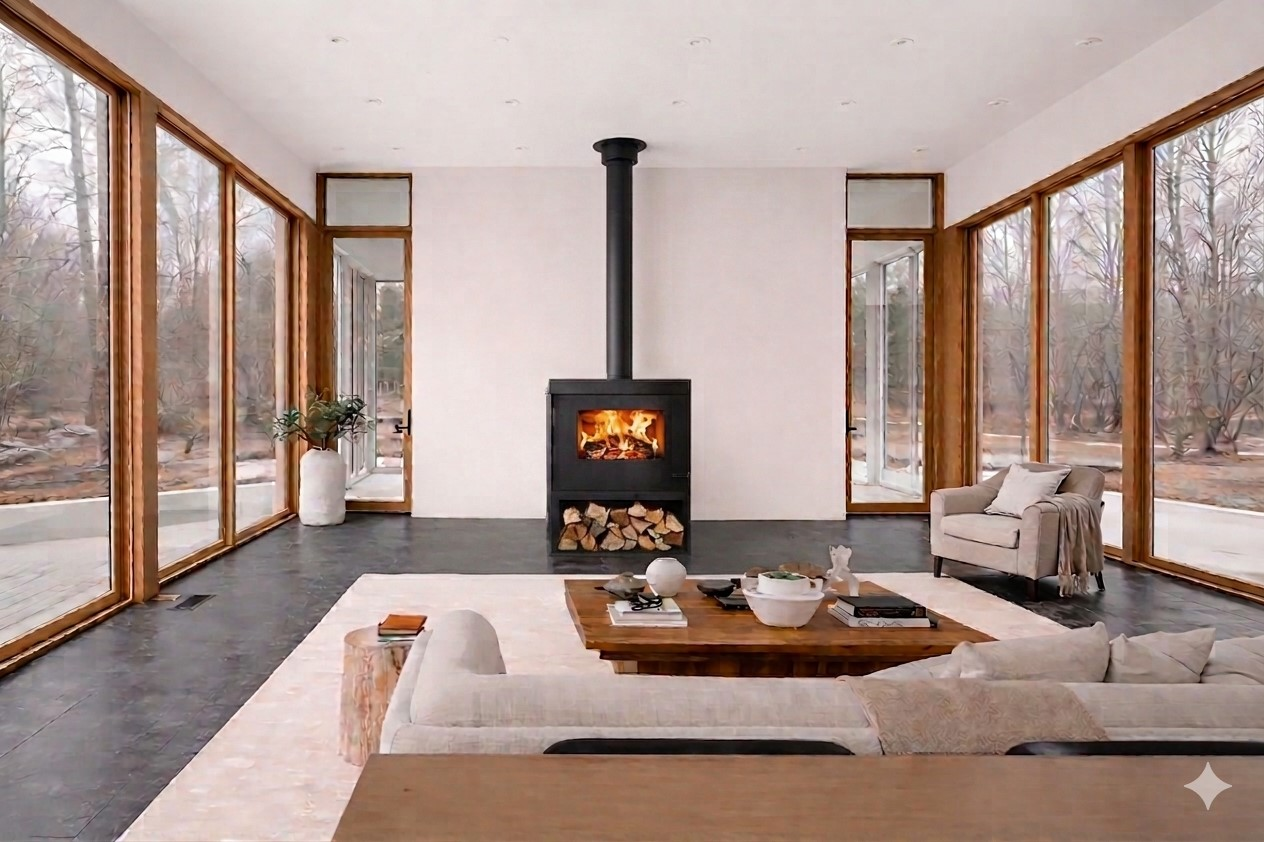
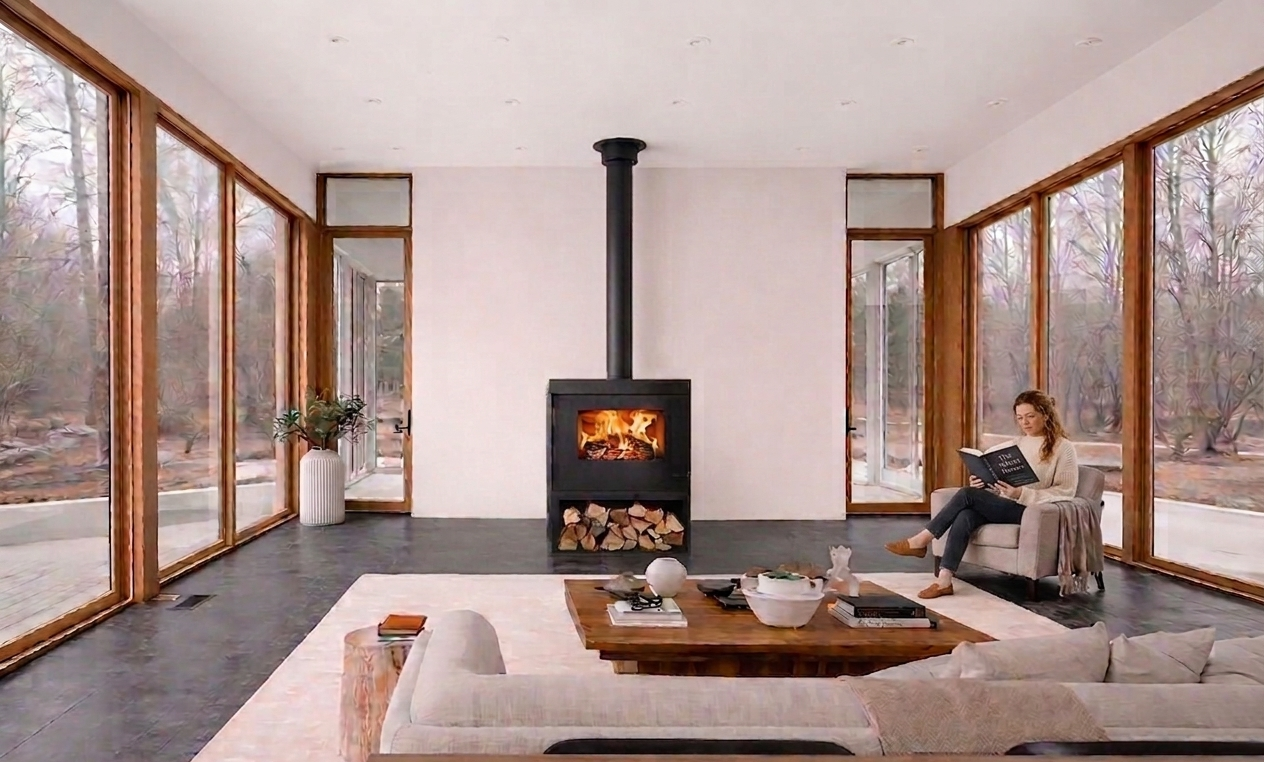
Produits: expandable panels for all nav boxes with styled lists, prices, real photos; Index: update Connecté and landing slideshow photos

diff --git a/produits.html b/produits.html
@@ -316,6 +316,88 @@
 
     .nav-box--black { background: #000; color: #fff; }
     .nav-box--white { background: #fff; color: #000; }
+
+    /* ── Expandable panels ── */
+    .nav-panel {
+      max-height: 0;
+      overflow: hidden;
+      transition: max-height 0.35s ease, padding 0.35s ease;
+      background: #fff;
+      padding: 0 8vw;
+    }
+
+    .nav-panel.active {
+      max-height: 3000px;
+      padding: 40px 8vw;
+    }
+
+    .nav-panel-title {
+      font-family: 'Georgia', serif;
+      font-size: clamp(13px, 1.3vw, 17px);
+      font-weight: bold;
+      color: rgba(255, 160, 50, 0.88);
+      letter-spacing: 0.16em;
+      text-transform: uppercase;
+      margin-bottom: 14px;
+      margin-top: 24px;
+    }
+
+    .nav-panel-title:first-child { margin-top: 0; }
+
+    .nav-panel-intro {
+      font-family: 'Georgia', serif;
+      font-size: clamp(13px, 1.15vw, 16px);
+      font-style: italic;
+      color: rgba(0, 0, 0, 0.5);
+      margin-bottom: 16px;
+    }
+
+    .nav-panel-body {
+      font-family: 'Georgia', serif;
+      font-size: clamp(12px, 1.1vw, 15px);
+      line-height: 1.85;
+      color: rgba(0, 0, 0, 0.6);
+    }
+
+    .nav-panel-list {
+      list-style: none;
+      padding: 0;
+      margin: 0;
+      display: flex;
+      flex-direction: column;
+      gap: 10px;
+    }
+
+    .nav-panel-list li {
+      font-family: 'Georgia', serif;
+      font-size: clamp(13px, 1.15vw, 16px);
+      line-height: 1.6;
+      color: rgba(0, 0, 0, 0.72);
+      padding-left: 22px;
+      position: relative;
+    }
+
+    .nav-panel-list li::before {
+      content: '*';
+      position: absolute;
+      left: 0;
+      color: rgba(0, 0, 0, 0.45);
+      font-weight: normal;
+    }
+
+    .nav-panel-images {
+      display: flex;
+      gap: 24px;
+      margin-top: 24px;
+    }
+
+    .nav-panel-images img {
+      flex: 1;
+      width: 50%;
+      height: 340px;
+      object-fit: contain;
+      background: #f5f5f5;
+    }
   </style>
 </head>
 <body>
@@ -344,11 +426,12 @@
   <section class="alt-section">
     <div class="alt-content">
       <h2 class="prod-section-title">Description<br>du produit</h2>
-      <p class="prod-text">WooDMooD a développé le poêle à bûches autonome et connecté, qui rend l'expérience du vrai feu plus facile et permet de vous chauffer à moindre coûts. Avec son système automatisé de gestion de l'air et de livraison de bûches, l'appareil a une autonomie approximative de 8 heures. Vous pilotez votre appareil grâce à une application.</p>
+      <p class="prod-text">WooDMooD a développé le poêle à bûches autonome et connecté, qui rend l'expérience du vrai feu plus facile et permet de vous chauffer de façon économique et à un prix relativement stable et sans surprises dans le temps. Vous démarrez votre feu manuellement et avec son système automatisé de gestion de l'air et de livraison de bûches, l'appareil présente une autonomie approximative de 8 heures. Vous pilotez votre appareil grâce à une application.</p>
     </div>
     <div class="alt-image" id="slideDesc">
       <div class="alt-slide active"><img src="img/produits/desc1.jpeg" alt="WooDMooD produit"></div>
-      <div class="alt-slide"><img src="img/produits/desc2.jpg" alt="WooDMooD produit"></div>
+      <div class="alt-slide"><img src="img/produits/desc2.jpg" alt="WooDMooD produit" style="object-fit: contain; background: #111;"></div>
+      <div class="alt-slide"><img src="img/produits/desc3.jpg" alt="WooDMooD produit" style="object-position: center top;"></div>
     </div>
   </section>
 
@@ -372,118 +455,159 @@
   <section class="alt-section">
     <div class="alt-content">
       <h2 class="prod-section-title">L'Appli</h2>
-      <p class="prod-text">Ouvrir la porte des cassettes · Informer du niveau de remplissage · Visualiser la température de consigne souhaitée · Informer en cas de défaut détecté · Piloter l'appareil à distance en toute simplicité.</p>
+      <p class="prod-text">Vous permet de piloter votre appareil pour · ouvrir les portes des cassettes · informer du niveau de remplissage de celles-ci · visualiser le niveau de température de consigne souhaité · informer en cas de défaut détecté · Vous piloter l'appareil à distance en toute simplicité.</p>
     </div>
     <div class="alt-image" id="slideAppli">
-      <div class="alt-slide active"><img src="https://picsum.photos/seed/app1/1200/800" alt="Application WooDMooD"></div>
-      <div class="alt-slide"><img src="https://picsum.photos/seed/app2/1200/800" alt="Application WooDMooD"></div>
-      <div class="alt-slide"><img src="https://picsum.photos/seed/app3/1200/800" alt="Application WooDMooD"></div>
+      <div class="alt-slide active"><img src="img/produits/appli.jpg" alt="Application WooDMooD" style="object-fit: contain; background: #000;"></div>
     </div>
   </section>
 
   <!-- ══ Nav boxes — row 1 ══ -->
   <div class="nav-boxes">
-    <a href="#installation" class="nav-box nav-box--black">Installation<br>et Encombrement</a>
-    <a href="#modeles"      class="nav-box nav-box--white">Modèles</a>
-    <a href="#materiaux"    class="nav-box nav-box--black">Matériaux</a>
-    <a href="#securite"     class="nav-box nav-box--white">Sécurité</a>
+    <button onclick="togglePanel('panelInstallation')" class="nav-box nav-box--black">Installation<br>et Encombrement</button>
+    <button onclick="togglePanel('panelModeles')" class="nav-box nav-box--white">Modèles</button>
+    <button onclick="togglePanel('panelMateriaux')" class="nav-box nav-box--black">Matériaux</button>
+    <button onclick="togglePanel('panelSecurite')" class="nav-box nav-box--white">Sécurité</button>
   </div>
+
 
   <!-- ══ Nav boxes — row 2 ══ -->
   <div class="nav-boxes">
-    <a href="#logement"   class="nav-box nav-box--white">Pour quelle taille<br>de logement ?</a>
-    <a href="#france"     class="nav-box nav-box--black">Made in France</a>
-    <a href="#certifie"   class="nav-box nav-box--white">Efficacité<br>certifiée</a>
+    <button onclick="togglePanel('panelLogement')" class="nav-box nav-box--white">Pour quelle taille<br>de logement ?</button>
+    <button onclick="togglePanel('panelFrance')" class="nav-box nav-box--black">Made in France</button>
+    <button onclick="togglePanel('panelCertifie')" class="nav-box nav-box--white">Efficacité<br>certifiée</button>
     <a href="#combustion" class="nav-box nav-box--black">Combustion<br>maitrisée</a>
   </div>
 
   <!-- ══ Nav boxes — row 3 ══ -->
-  <div class="nav-boxes">
-    <a href="#prix" class="nav-box nav-box--black">Prix</a>
+  <div class="nav-boxes" style="outline: 1px solid rgba(255,255,255,0.6);">
+    <button onclick="togglePanel('panelPrix')" class="nav-box nav-box--black">Prix</button>
   </div>
 
-  <!-- ══ Legacy content ══ -->
-  <section class="page-content">
-    <div class="page-content-inner">
-
-      <p class="page-intro">
-        WooDMooD a développé le poêle à bûches autonome et connecté, qui rend l'expérience du vrai feu plus facile et permet de vous chauffer à moindre coûts.<br><br>
-        Avec son système automatisé de gestion de l'air et de livraison de bûches de 33 cm stockées dans deux cassettes (contenant au total 12 bûches), l'appareil a une autonomie approximative de 8 heures dans le cas où vous ne réapprovisionnez pas. Vous pilotez votre appareil grâce à une application.
-      </p>
-
-      <div class="products-grid">
-
-        <!-- LEFT: Poêle à Bûches -->
-        <div class="product-col">
-          <h2 class="col-title">Poêle à Bûches</h2>
-          <div class="media-placeholder">Photo produit à venir</div>
-          <div class="media-placeholder">Photo produit à venir</div>
-        </div>
-
-        <!-- RIGHT: Appli -->
-        <div class="product-col">
-          <h2 class="col-title">Appli</h2>
-          <div class="spec-body" style="margin-bottom: 28px; font-style: normal; line-height: 1.85;">
-            L'appli permet de réaliser de multiples taches comme par exemple :<br>
-            Ouvrir la porte des cassettes<br>
-            Informer du niveau de remplissage des cassettes<br>
-            Visualiser la température de consigne que vous souhaitez<br>
-            Informer en cas de défaut détecté
-          </div>
-          <div class="media-placeholder">Capture d'écran à venir</div>
-          <div class="media-placeholder">Capture d'écran à venir</div>
-        </div>
-
+  <!-- ══ Panel: Prix ══ -->
+  <div class="nav-panel" id="panelPrix">
+    <h3 class="nav-panel-title">Prix</h3>
+    <div style="display:flex; align-items:center; gap:32px; flex-wrap:wrap;">
+      <div style="display:flex; align-items:baseline; gap:20px;">
+        <span style="font-family:'Georgia',serif; font-size:clamp(22px,3vw,36px); color:rgba(0,0,0,0.3); text-decoration:line-through;">6 500 €</span>
+        <span style="font-family:'Georgia',serif; font-size:clamp(28px,4vw,48px); font-weight:bold; color:#000;">4 999 €</span>
       </div>
-
-      <!-- Full-width spec sections -->
-      <div class="spec-sections">
-
-        <div class="spec-row">
-          <h3 class="spec-title">Installation et encombrement</h3>
-          <div class="spec-body">
-            <span class="spec-sublabel">L'installation</span><br>
-            &nbsp;&nbsp;* doit être réalisée par un professionnel<br>
-            &nbsp;&nbsp;* accès à un WIFI<br>
-            &nbsp;&nbsp;* une prise de courant à proximité<br>
-            &nbsp;&nbsp;* un conduit de 150mm de diamètre<br>
-            <br>
-            <span class="spec-sublabel">Encombrement</span><br>
-            &nbsp;&nbsp;Schémas à venir
-          </div>
-        </div>
-
-        <div class="spec-row">
-          <h3 class="spec-title">Matériaux</h3>
-          <div class="spec-body">
-            Construction en acier : core du Poêle en acier 6mm<br>
-            Matériaux réfractaires : briques (pour le rayonnement et accumulation de chaleur) et vermiculite<br>
-            Peinture haute température<br>
-            Verre vitrocéramique
-          </div>
-        </div>
-
-        <div class="spec-row">
-          <h3 class="spec-title">Systèmes de sécurité</h3>
-          <div class="spec-body">
-            Système de protection haute température<br>
-            Arrêt de la ventilation et livraison de bois lors de l'ouverture de la porte principale<br>
-            Arrêt de la ventilation lors de l'ouverture de la trappe d'insertion d'une cassette<br>
-            Blocage et déblocage électronique de l'ouverture des portes des cassettes<br>
-            Système de gabaris dans les cassettes pour éviter les blocages de bûches<br>
-            Système de détection de blocage d'une trappe par une bûche
-          </div>
-        </div>
-
-        <div class="spec-row">
-          <h3 class="spec-title">Prix</h3>
-          <p class="spec-body">À venir</p>
-        </div>
-
-      </div>
-
+      <p style="font-family:'Georgia',serif; font-size:clamp(13px,1.15vw,16px); font-style:italic; color:rgba(0,0,0,0.5); margin:0;">prix introductif et pour une durée et un nombre d'appareils limité</p>
     </div>
-  </section>
+  </div>
+
+  <!-- ══ Panel: Modèles ══ -->
+  <div class="nav-panel" id="panelModeles">
+    <h3 class="nav-panel-title">Modèles</h3>
+    <ul class="nav-panel-list">
+      <li>Il existe actuellement deux modèles présentés ci-dessous</li>
+      <li>Deux finitions : "brut de fonderie" (première photo) et noir velouté (deuxième photo)</li>
+    </ul>
+    <div class="nav-panel-images">
+      <div style="display:flex; flex-direction:column; gap:12px; flex:1;">
+        <img src="img/produits/modele1.jpg" alt="Modèle 1" style="width:100%; height:300px; object-fit:contain; background:#f5f5f5;">
+        <img src="img/produits/modele1b.jpg" alt="Modèle 1 détail" style="width:100%; height:280px; object-fit:cover; background:#f5f5f5;">
+      </div>
+      <div style="display:flex; flex-direction:column; gap:12px; flex:1;">
+        <img src="img/produits/modele2.jpg" alt="Modèle 2" style="width:100%; height:300px; object-fit:contain; background:#f5f5f5; object-position: center 30%;">
+        <img src="img/produits/modele2b.jpg" alt="Modèle 2 détail" style="width:100%; height:280px; object-fit:cover; background:#f5f5f5;">
+      </div>
+    </div>
+  </div>
+
+  <!-- ══ Panel: Installation et Encombrement ══ -->
+  <div class="nav-panel" id="panelInstallation">
+    <h3 class="nav-panel-title">Installation</h3>
+    <ul class="nav-panel-list">
+      <li>Doit être réalisée par un professionnel</li>
+      <li>Accès à un WiFi</li>
+      <li>Une prise de courant à proximité</li>
+      <li>Un conduit de 150mm de diamètre</li>
+    </ul>
+    <h3 class="nav-panel-title">Encombrement</h3>
+    <p class="nav-panel-intro">À venir</p>
+  </div>
+
+  <!-- ══ Panel: Sécurité ══ -->
+  <div class="nav-panel" id="panelSecurite">
+    <h3 class="nav-panel-title">Sécurité</h3>
+    <p class="nav-panel-intro">Parce que la sécurité est notre top priorité, votre appareil est non seulement certifié CE mais nous allons bien au delà... voici quelques exemples des systèmes de sécurité existants :</p>
+    <ul class="nav-panel-list">
+      <li>Système de protection haute température (votre appareil ne peut pas monter en température au delà d'un niveau défini en usine)</li>
+      <li>Arrêt de la ventilation et livraison de bois lors de l'ouverture de la porte principale (cela limite la baisse de température de votre appareil et la fumée dans votre logement)</li>
+      <li>Arrêt de la ventilation lors de l'ouverture de la trappe d'insertion d'une cassette (cela limite la baisse de température de votre appareil et la fumée dans votre logement)</li>
+      <li>Déverrouillage électronique des portes des cassettes</li>
+      <li>Les cassettes sont équipées de gabarit afin d'éviter les blocages de bûches</li>
+      <li>Système de détection de blocage d'une trappe par une bûche et envoi de notification automatique</li>
+    </ul>
+  </div>
+
+  <!-- ══ Panel: Matériaux ══ -->
+  <div class="nav-panel" id="panelMateriaux">
+    <div style="display:flex; gap:40px; align-items:center;">
+      <div style="flex:1;">
+        <h3 class="nav-panel-title">Matériaux</h3>
+        <p class="nav-panel-intro">La plus grande attention a été apportée à la sélection des matériaux</p>
+        <ul class="nav-panel-list">
+          <li>Construction en acier : corps du Poêle en acier 6mm</li>
+          <li>Matériaux réfractaires : briques (pour le rayonnement et accumulation de chaleur) et vermiculite</li>
+          <li>Peinture haute température</li>
+          <li>Verre vitrocéramique</li>
+        </ul>
+      </div>
+      <div style="flex-shrink:0;">
+        <img src="img/produits/materiaux-poele.jpg" alt="Poêle WooDMooD" style="height:200px; width:auto; object-fit:contain;">
+      </div>
+    </div>
+  </div>
+
+  <!-- ══ Panel: Efficacité certifiée ══ -->
+  <div class="nav-panel" id="panelCertifie">
+    <div style="display:flex; gap:40px; align-items:center;">
+      <div style="flex:1;">
+        <h3 class="nav-panel-title">Efficacité certifiée</h3>
+        <p class="nav-panel-intro">Notre appareil est certifié CE, ce qui veut dire qu'il respecte les dernières Normes Européennes en vigueur pour 4 aspects différents :</p>
+        <ul class="nav-panel-list">
+          <li>Norme de Sécurité et Combustion des poêles à buches</li>
+          <li>Normes ELV (courant basse tension)</li>
+          <li>Norme Electromagnétisme</li>
+          <li>Norme Machine (sécurité machine afin d'éliminer les risques de blessures)</li>
+        </ul>
+      </div>
+      <div style="flex-shrink:0;">
+        <img src="img/produits/ce-quality-certificate.jpg" alt="Certification CE" style="height:180px; width:auto; object-fit:contain;">
+      </div>
+    </div>
+  </div>
+
+  <!-- ══ Panel: Made in France ══ -->
+  <div class="nav-panel" id="panelFrance">
+    <div style="display:flex; gap:40px; align-items:center;">
+      <div style="flex:1;">
+        <h3 class="nav-panel-title">Made in France</h3>
+        <p class="nav-panel-intro">WooDMooD est une entreprise basée à Angers dans le Maine-et-Loire</p>
+        <ul class="nav-panel-list">
+          <li>Le développement R&amp;D a été réalisé à Orléans et à Angers</li>
+          <li>La majorité de nos fournisseurs se situent à une distance maxi de 100km autour de notre atelier</li>
+          <li>Notre atelier d'assemblage se situe à Angers</li>
+        </ul>
+      </div>
+      <div style="flex-shrink:0;">
+        <img src="img/produits/made-in-france.jpg" alt="Made in France" style="height:180px; width:auto; object-fit:contain;">
+      </div>
+    </div>
+  </div>
+
+  <!-- ══ Panel: Pour quelle taille de logement ══ -->
+  <div class="nav-panel" id="panelLogement">
+    <h3 class="nav-panel-title">Pour quelle taille de logement ?</h3>
+    <ul class="nav-panel-list">
+      <li>Du fait de son fonctionnement particulier par rapport aux poêles à buches du marché, vous pouvez sélectionner le niveau de température désiré sur votre appli de T1 à T6.</li>
+      <li>Vous pouvez donc chauffer un logement de 100m² à 200m².</li>
+      <li>En mode éco, votre appareil présente une puissance de 12KW.</li>
+    </ul>
+  </div>
+
 
   <script>
     function fitBrandName() {
@@ -517,6 +641,20 @@
     initSlideshow('slideDesc');
     initSlideshow('slidePole');
     initSlideshow('slideAppli');
+
+    function togglePanel(id) {
+      const panel = document.getElementById(id);
+      const isOpen = panel.classList.contains('active');
+      document.querySelectorAll('.nav-panel').forEach(p => p.classList.remove('active'));
+      if (!isOpen) {
+        panel.classList.add('active');
+        setTimeout(() => {
+          const rect = panel.getBoundingClientRect();
+          const headerH = window.innerHeight * 0.15;
+          window.scrollBy({ top: rect.top - headerH, behavior: 'smooth' });
+        }, 380);
+      }
+    }
 
     /* ── Top slideshow ── */
     (function() {

diff --git a/index.html b/index.html
@@ -316,9 +316,7 @@
   <!-- 2 — Connecté : image left, text right -->
   <section class="alt-section">
     <div class="alt-image" id="slideConnect">
-      <div class="alt-slide active"><img src="https://picsum.photos/seed/conn1/1200/800" alt="Connecté"></div>
-      <div class="alt-slide"><img src="https://picsum.photos/seed/conn2/1200/800" alt="Connecté"></div>
-      <div class="alt-slide"><img src="https://picsum.photos/seed/conn3/1200/800" alt="Connecté"></div>
+      <div class="alt-slide active"><img src="img/slides/connecte.jpg" alt="Connecté"></div>
     </div>
     <div class="alt-content alt-content--dark">
       <svg class="alt-icon" viewBox="0 0 48 48"><path d="M5 19 Q24 3 43 19"/><path d="M11 26 Q24 13 37 26"/><path d="M17 33 Q24 23 31 33"/><circle class="dot" cx="24" cy="40" r="2.5"/></svg>